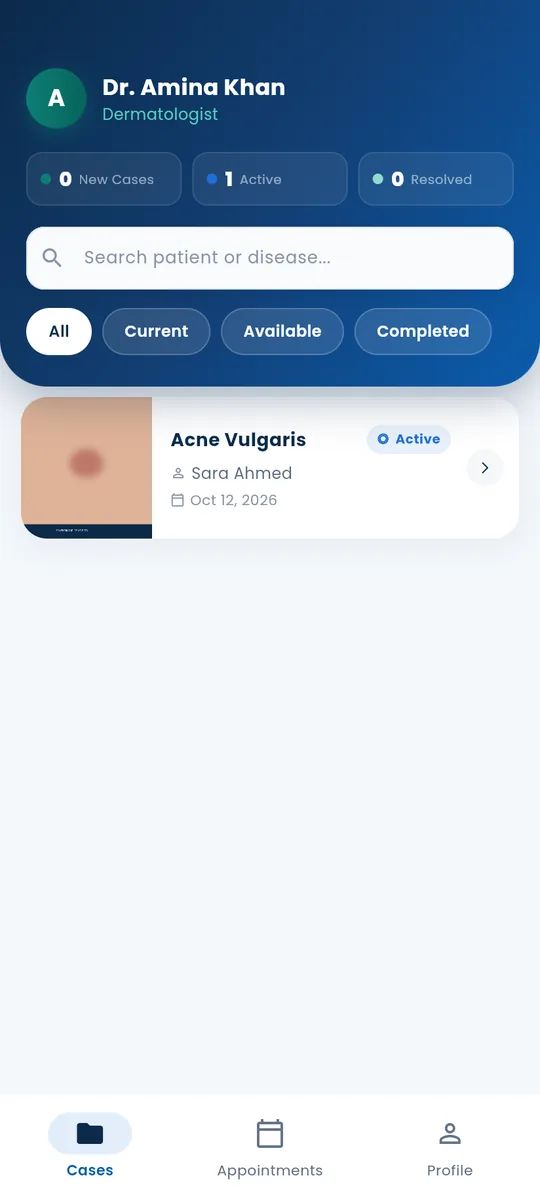
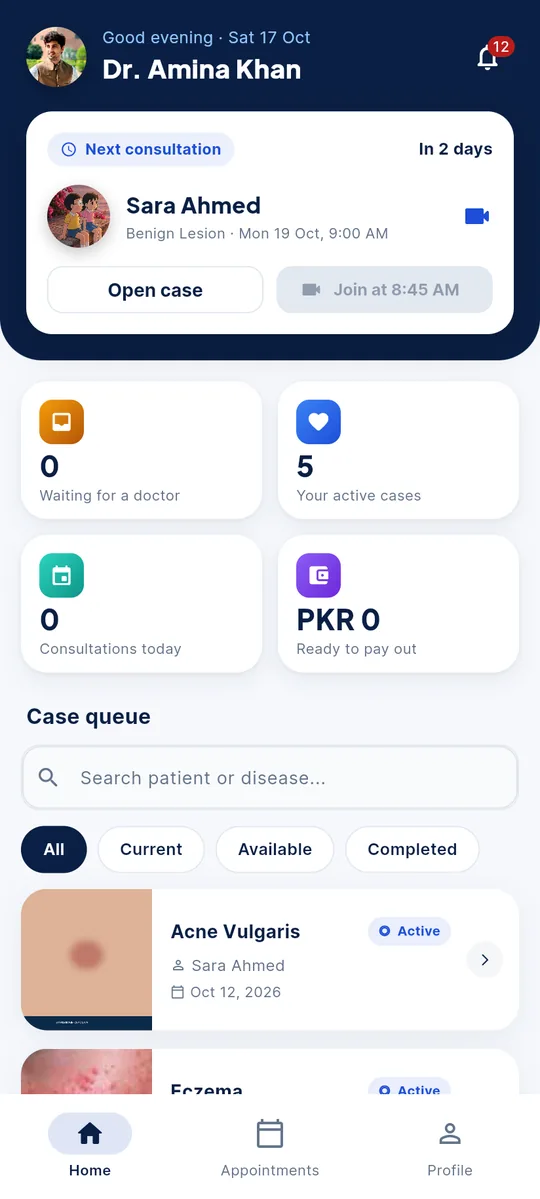
DermaCare: new doctor dashboard screen

diff --git a/index.html b/index.html
@@ -184,7 +184,7 @@
           <figure><img src="assets/work/17_skin_timeline.webp" alt="Skin timeline" loading="lazy" width="270" height="600"><figcaption>Skin timeline</figcaption></figure>
           <figure><img src="assets/work/16_family_member.webp" alt="Family member profile with their own scans" loading="lazy" width="270" height="600"><figcaption>Family profiles</figcaption></figure>
           <figure><img src="assets/work/18_photo_crop.webp" alt="Profile photo crop" loading="lazy" width="270" height="600"><figcaption>Photo crop</figcaption></figure>
-          <figure><img src="assets/work/30_doctor_cases.webp" alt="Doctor case queue" loading="lazy" width="270" height="600"><figcaption>Doctor app</figcaption></figure>
+          <figure><img src="assets/work/30_doctor_cases.webp" alt="Doctor home dashboard: next consultation, key numbers and case queue" loading="lazy" width="270" height="600"><figcaption>Doctor dashboard</figcaption></figure>
           <figure><img src="assets/work/32_doctor_profile.webp" alt="Doctor profile and activity" loading="lazy" width="270" height="600"><figcaption>Doctor insights</figcaption></figure>
           <figure><img src="assets/work/33_doctor_fees.webp" alt="Doctor fees with the 80/20 split and payout account" loading="lazy" width="270" height="600"><figcaption>Fees &amp; payouts</figcaption></figure>
           <figure><img src="assets/work/42_admin_platform.webp" alt="Admin analytics" loading="lazy" width="270" height="600"><figcaption>Admin console</figcaption></figure>
